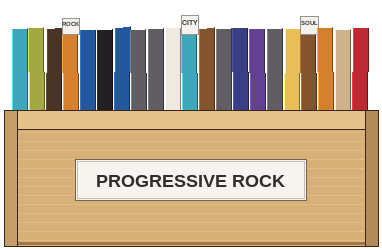
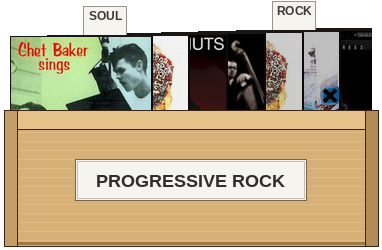
箱子裡改放真封面，黑籃補上菱形格柵
店主把我的模擬圖丟回圖像模型細修，差別在箱子裡看得到封面、黑籃是真的格柵。
我有 27 張真封面（art/covers），所以直接用真的，比生成的假封面更好。

- face_out()：封面朝外、一張疊一張往後倒，越後面越暗，
  中間插比較高的白色分類卡。畫在暫存層再裁齊箱口，不會溢出箱外
- 黑籃格柵改成菱形網格，同樣先畫在暫存層再裁，不會拖出長斜線
- 各出變體（木箱 2、黑籃 3），同一張圖重複貼會看出內容一模一樣

場景仍未動，等店主確認。

Claude-Session: https://claude.ai/code/session_019QrQGEkqCT46LjRfRKh6Qz

Changed region(s): [[0.0288, 0.0, 0.9791, 0.448]]

diff --git a/scripts/make-crates.py b/scripts/make-crates.py
@@ -12,6 +12,7 @@
     python3 scripts/make-crates.py
 """
 import os, random
+import numpy as np
 from PIL import Image, ImageDraw, ImageFont
 
 ROOT = os.path.dirname(os.path.dirname(os.path.abspath(__file__)))
@@ -27,6 +28,46 @@ SLEEVE = [(188,42,52),(36,88,158),(226,216,192),(232,190,86),(52,118,84),
           (98,64,146),(212,128,44),(64,166,186),(34,32,34),(132,84,44),
           (238,234,226),(96,94,98),(198,96,124),(58,62,132),(164,168,66),
           (150,150,152),(74,52,38),(206,178,140)]
+
+
+COVERS = os.path.join(ROOT, 'art', 'covers')
+
+
+def face_out(im, x, y, w, h, n, label_every=5):
+    """箱子裡的唱片：**封面朝外**、一張疊一張往後倒（用 art/covers 的真封面）。
+    只有露在箱口以上的部分看得到，所以封面畫得比開口高、下半截被箱身蓋住。"""
+    pool = sorted(p for p in os.listdir(COVERS) if p.endswith('.jpg')) \
+        if os.path.isdir(COVERS) else []
+    d = ImageDraw.Draw(im)
+    if not pool:
+        sleeves(d, x, y, w, h, n, label_every); return
+    size = int(h * 2.0)                      # 封面是方的，下半截藏在箱子裡
+    pad = int(h * .5)                        # 上方留給比較高的分類卡
+    layer = Image.new('RGBA', (w, size + pad), (0, 0, 0, 0))   # 先畫在暫存層，再裁齊箱口
+    ld = ImageDraw.Draw(layer)
+    step = max(8, (w - size * .42) / max(1, n - 1))
+    picks = [random.choice(pool) for _ in range(n)]
+    for i in range(n - 1, -1, -1):           # 由後往前畫，前面那張蓋住後面
+        cx, ly = int(i * step), pad + int((n - 1 - i) * 1.1)
+        cv = Image.open(os.path.join(COVERS, picks[i])).convert('RGB').resize(
+            (size, size), Image.LANCZOS)
+        k = 0.60 + (1 - i / max(1, n - 1)) * 0.40          # 越後面越暗
+        cv = Image.fromarray(
+            np.clip(np.asarray(cv, np.float32) * k, 0, 255).astype(np.uint8), 'RGB')
+        layer.paste(cv, (cx, ly))
+        ld = ImageDraw.Draw(layer)
+        ld.rectangle([cx, ly, cx + size - 1, ly + size - 1], outline=(26, 22, 20))
+        ld.line([(cx + size - 1, ly), (cx + size - 1, ly + size - 1)], fill=(12, 10, 10),
+                width=2)
+        if i % label_every == 2:             # 分類卡：比唱片高一截
+            lh, lw = int(h * .40), int(step) + 4
+            ld.rectangle([cx - 2, ly - lh, cx + lw, ly + 4], fill=(246, 244, 238),
+                         outline=(150, 148, 142))
+            f = ImageFont.truetype(F_BOLD, max(7, int(lh * .46)))
+            ld.text((cx + lw / 2, ly - lh + 3),
+                    random.choice(['ROCK', 'SOUL', 'JAZZ', 'CITY']), font=f,
+                    fill=(60, 58, 56), anchor='ma')
+    im.alpha_composite(layer, (int(x), int(y - pad)))
 
 
 def sleeves(d, x, y, w, h, n, label_every=7):
@@ -64,8 +105,9 @@ def wood_crate(w_cm=68, h_cm=30, label='PROGRESSIVE ROCK'):
     rim = int(14 * PX_CM)                               # 唱片露出箱口的高度
     body_top = rim + int(6 * PX_CM)
     body_bot = H + 4
-    sleeves(d, x0 + 8, rim - int(9 * PX_CM), W - 16, body_top - rim + int(10 * PX_CM),
-            max(10, int(w_cm / 3.2)))
+    face_out(im, x0 + 6, rim - int(9 * PX_CM), W - 12, int(13 * PX_CM),
+             max(7, int(w_cm / 7)))
+    d = ImageDraw.Draw(im)
     # 箱身（前板）
     d.rectangle([x0, body_top, x1, body_bot], fill=(214, 176, 118), outline=INK)
     for gy in range(body_top + 4, body_bot - 2, 9):     # 木紋
@@ -98,21 +140,34 @@ def black_crate(w_cm=46, h_cm=30):
     x0, x1 = 4, W + 4
     rim = int(10 * PX_CM)
     body_top, body_bot = rim + int(4 * PX_CM), H + 4
-    sleeves(d, x0 + 7, rim - int(7 * PX_CM), W - 14, body_top - rim + int(8 * PX_CM),
-            max(8, int(w_cm / 3.0)), label_every=9)
+    face_out(im, x0 + 5, rim - int(6.5 * PX_CM), W - 10, int(9.5 * PX_CM),
+             max(5, int(w_cm / 8)), label_every=7)
+    d = ImageDraw.Draw(im)
     d.rectangle([x0, body_top, x1, body_bot], fill=(38, 38, 40), outline=(16, 16, 18))
-    d.rectangle([x0, body_top, x1, body_top + 7], fill=(78, 78, 82))     # 籃口
-    for gx in range(x0 + 10, x1 - 8, 16):                                # 格柵
-        d.rectangle([gx, body_top + 12, gx + 8, body_bot - 10], fill=(24, 24, 26))
-        d.line([(gx, body_top + 12), (gx, body_bot - 10)], fill=(62, 62, 66))
+    d.rectangle([x0, body_top, x1, body_top + 8], fill=(84, 84, 88))     # 籃口
+    gy0, gy1 = body_top + 13, body_bot - 12
+    gw, gh = x1 - x0 - 12, gy1 - gy0                                     # 菱形格柵
+    mesh = Image.new('RGBA', (gw, gh), (0, 0, 0, 0))
+    md = ImageDraw.Draw(mesh)
+    for gx in range(-gh, gw + gh, 17):
+        md.line([(gx, 0), (gx + gh, gh)], fill=(74, 74, 80), width=3)
+        md.line([(gx + gh, 0), (gx, gh)], fill=(74, 74, 80), width=3)
+    im.alpha_composite(mesh, (x0 + 6, gy0))
+    d = ImageDraw.Draw(im)
+    d.rectangle([x0, gy0 - 4, x1, gy0], fill=(22, 22, 24))
+    d.rectangle([x0, gy1, x1, gy1 + 4], fill=(22, 22, 24))
+    d.rectangle([x0, body_top, x1, body_bot], outline=(14, 14, 16), width=3)
     d.rectangle([x0, body_bot - 8, x1, body_bot], fill=(20, 20, 22), outline=(12, 12, 14))
     return im
 
 
 def main():
+    # 同一張圖重複貼三次會看出內容一模一樣，所以各出幾個變體
     outs = [('crate-wood', wood_crate(label='PROGRESSIVE ROCK')),
             ('crate-wood-2', wood_crate(label='SOUL / FUNK')),
-            ('crate-black', black_crate())]
+            ('crate-black', black_crate()),
+            ('crate-black-2', black_crate()),
+            ('crate-black-3', black_crate())]
     for name, im in outs:
         p = os.path.join(OUT, name + '.png')
         im.save(p, optimize=True)
